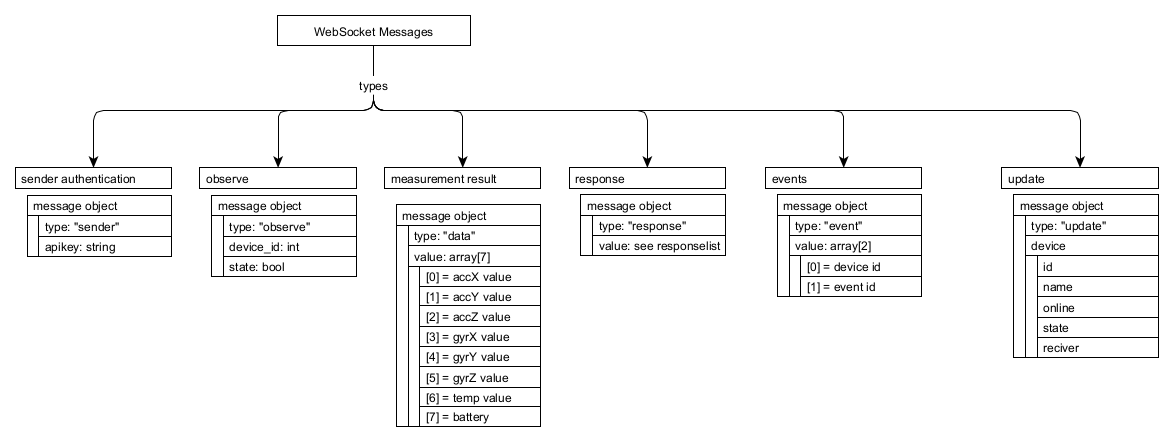
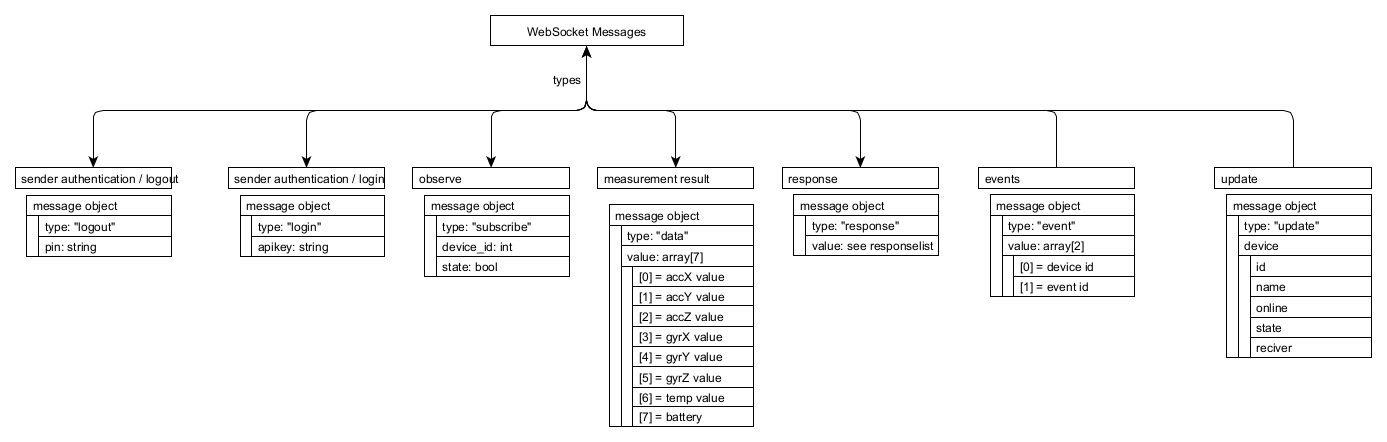
changed observer message to subscriber message

diff --git a/web/php/SocketController.php b/web/php/SocketController.php
@@ -15,7 +15,7 @@ use DBController;
 use Device;
 
 // SendGlobalMessageFlags
-define("SGMF_OBSERVER", 1 << 1);
+define("SGMF_SUBSCRIBER", 1 << 1);
 define("SGMF_SENDER", 1 << 2);
 define("SGMF_CONNECTION", 1 << 3);
 define("SGMF_UNUSED_CONNECTION", 1 << 4);
@@ -74,9 +74,9 @@ class SocketController implements MessageComponentInterface
                                 $this->Database->setDeviceOnlineState($device->id, true);
                                 $from->send($this->response(RP_DEVICE_REGISTERED));
                                 // send global update
-                                $this->sendGlobalMessage($this->getDeviceInfo($device->id), SGMF_OBSERVER);
+                                $this->sendGlobalMessage($this->getDeviceInfo($device->id), SGMF_SUBSCRIBER);
                             } else {
-                                $from->send($this->response(RP_OBSERVER_CANT_REGISTER_AS_DEVICE));
+                                $from->send($this->response(RP_SUBSCRIBER_CANT_REGISTER_AS_DEVICE));
                             }
                         } else {
                             $from->send($this->response(RP_DEVICE_ALREADY_REGISTERED));
@@ -110,7 +110,7 @@ class SocketController implements MessageComponentInterface
                             $this->Database->setDeviceOnlineState($device->id, false);
                             $from->send($this->response(RP_DEVICE_LOGGED_OUT));
                             // send global update
-                            $this->sendGlobalMessage($this->getDeviceInfo($device->id), SGMF_OBSERVER);
+                            $this->sendGlobalMessage($this->getDeviceInfo($device->id), SGMF_SUBSCRIBER);
 
                             echo "Device: " . $callingDevice->id . " logged out from: " . $employee->name;
                         } else {
@@ -123,7 +123,7 @@ class SocketController implements MessageComponentInterface
                     }
                 }
                 break;
-            case "observe":
+            case "subscribe":
                 if (isset($data->device_id)) {
                     // device id check
                     if ($device = $this->Database->validateChannelId($data->device_id)) {
@@ -138,28 +138,28 @@ class SocketController implements MessageComponentInterface
                                 if ($data->state) {
                                     // observe
                                     if ($this->devices[$device->id]->addObserver($from->resourceId)) {
-                                        $from->send($this->response(RP_OBSERVER_REGISTERED));
+                                        $from->send($this->response(RP_SUBSCRIBER_REGISTERED));
                                         $this->updateDeviceObserverCount($device->id);
                                     } else {
-                                        $from->send($this->response(RP_OBSERVER_ALREADY_REGISTERED));
+                                        $from->send($this->response(RP_SUBSCRIBER_ALREADY_REGISTERED));
                                     }
                                 } else {
                                     // not observe
                                     if ($this->devices[$device->id]->removeObserver($from->resourceId)) {
-                                        $from->send($this->response(RP_OBSERVER_UNREGISTERED));
+                                        $from->send($this->response(RP_SUBSCRIBER_UNREGISTERED));
                                         $this->updateDeviceObserverCount($device->id);
                                     } else {
-                                        $from->send($this->response(RP_OBSERVER_NOT_REGISTERED));
+                                        $from->send($this->response(RP_SUBSCRIBER_NOT_REGISTERED));
                                     }
                                 }
                                 //  ᴧ        ᴧ
                                 // / \      / \
                                 //  |        |
                             } else {
-                                $from->send($this->response(RP_DEVICE_CANT_REGISTER_AS_OBSERVER));
+                                $from->send($this->response(RP_DEVICE_CANT_REGISTER_AS_SUBSCRIBER));
                             }
                         } else {
-                            $from->send($this->response(RP_OBSERVER_MISSING_REGESTRATION_STATE));
+                            $from->send($this->response(RP_SUBSCRIBER_MISSING_REGESTRATION_STATE));
                         }
                     } else {
                         $from->send($this->response(RP_INVALID_DEVICE_ID));
@@ -203,13 +203,13 @@ class SocketController implements MessageComponentInterface
                 // sender successfuly removed
                 $this->Database->setDeviceOnlineState($device->id, false);
                 // send global device update
-                $this->sendGlobalMessage($this->getDeviceInfo($device->id), SGMF_OBSERVER);
+                $this->sendGlobalMessage($this->getDeviceInfo($device->id), SGMF_SUBSCRIBER);
                 break;
             } elseif ($device->removeObserver($clientConnection->resourceId)) {
                 // subscriber successfuly removed
                 $this->Database->setObserverCount($device->id, $this->devices[$device->id]->observerCount);
                 // send global device update
-                $this->sendGlobalMessage($this->getDeviceInfo($device->id), SGMF_OBSERVER);
+                $this->sendGlobalMessage($this->getDeviceInfo($device->id), SGMF_SUBSCRIBER);
                 break;
             }
         }
@@ -233,7 +233,7 @@ class SocketController implements MessageComponentInterface
             }
         }
 
-        if ($target & SGMF_OBSERVER) {
+        if ($target & SGMF_SUBSCRIBER) {
             foreach ($this->devices as $device) {
                 $device->send($message);
             }
@@ -284,6 +284,6 @@ class SocketController implements MessageComponentInterface
     private function updateDeviceObserverCount($id)
     {
         $this->Database->setObserverCount($id, $this->devices[$id]->observerCount);
-        $this->sendGlobalMessage($this->getDeviceInfo($id), SGMF_OBSERVER);
+        $this->sendGlobalMessage($this->getDeviceInfo($id), SGMF_SUBSCRIBER);
     }
 }

diff --git a/web/php/Response.php b/web/php/Response.php
@@ -4,25 +4,24 @@ define("RP_NOT_CONNECTED", 1);
 define("RP_CONNECTED", 2);
 define("RP_GOBAL_UPDATE", 4);
 
-
 define("RP_DEVICE_LOGOUT_FAILED", 8);
 define("RP_DEVICE_LOGGED_OUT", 9);
 
 define("RP_DEVICE_REGISTERED", 10);
-define("RP_OBSERVER_REGISTERED", 11);
-define("RP_OBSERVER_UNREGISTERED", 12);
+define("RP_SUBSCRIBER_REGISTERED", 11);
+define("RP_SUBSCRIBER_UNREGISTERED", 12);
 
 define("RP_MISSING_API_KEY", 19);
 define("RP_INVALID_API_KEY", 20);
 define("RP_DEVICE_ALREADY_REGISTERED", 21);
 define("RP_DEVICE_NOT_REGISTERED", 22);
 define("RP_INVALID_DEVICE_ID", 23);
-define("RP_OBSERVER_ALREADY_REGISTERED", 24);
-define("RP_OBSERVER_NOT_REGISTERED", 25);
+define("RP_SUBSCRIBER_ALREADY_REGISTERED", 24);
+define("RP_SUBSCRIBER_NOT_REGISTERED", 25);
 define("RP_MISSING_DEVICE_ID", 26);
-define("RP_OBSERVER_MISSING_REGESTRATION_STATE", 27);
-define("RP_OBSERVER_CANT_REGISTER_AS_DEVICE", 28);
-define("RP_DEVICE_CANT_REGISTER_AS_OBSERVER", 29);
+define("RP_SUBSCRIBER_MISSING_REGESTRATION_STATE", 27);
+define("RP_SUBSCRIBER_CANT_REGISTER_AS_DEVICE", 28);
+define("RP_DEVICE_CANT_REGISTER_AS_SUBSCRIBER", 29);
 define("RP_MISSING_TYPE", 30);
 define("RP_MISSING_DATA", 31);
 define("RP_UNKNOWN_DATA_TYPE", 32);

diff --git a/testing/sender_double_regestration.py b/testing/sender_double_regestration.py
@@ -4,7 +4,7 @@ import json
 
 def test(ws):
     wsMsg = {
-        "type": "sender",
+        "type": "login",
[1 lines of base64/hex data omitted]
     }
     ws.send(json.dumps(wsMsg))

diff --git a/testing/sender_regestration.py b/testing/sender_regestration.py
@@ -4,7 +4,7 @@ import json
 
 def test(ws):
     wsMsg = {
-        "type": "sender",
+        "type": "login",
[1 lines of base64/hex data omitted]
     }
     ws.send(json.dumps(wsMsg))

diff --git a/testing/subscriber_sender_regestration.py b/testing/subscriber_sender_regestration.py
@@ -4,7 +4,7 @@ import json
 
 def test(ws):
     wsMsg = {
-        "type": "sender",
+        "type": "login",
[1 lines of base64/hex data omitted]
     }
     ws.send(json.dumps(wsMsg))

diff --git a/testing/sender_invalid_apikey.py b/testing/sender_invalid_apikey.py
@@ -3,7 +3,7 @@ import json
 
 
 def test(ws):
-    wsMsg = {"type": "sender", "apikey": "random"}
+    wsMsg = {"type": "login", "apikey": "random"}
     ws.send(json.dumps(wsMsg))
     message = json.loads(ws.recv())
 

diff --git a/testing/sender_missing_apikey.py b/testing/sender_missing_apikey.py
@@ -3,7 +3,7 @@ import json
 
 
 def test(ws):
-    wsMsg = {"type": "sender"}
+    wsMsg = {"type": "login"}
     ws.send(json.dumps(wsMsg))
     message = json.loads(ws.recv())
 
